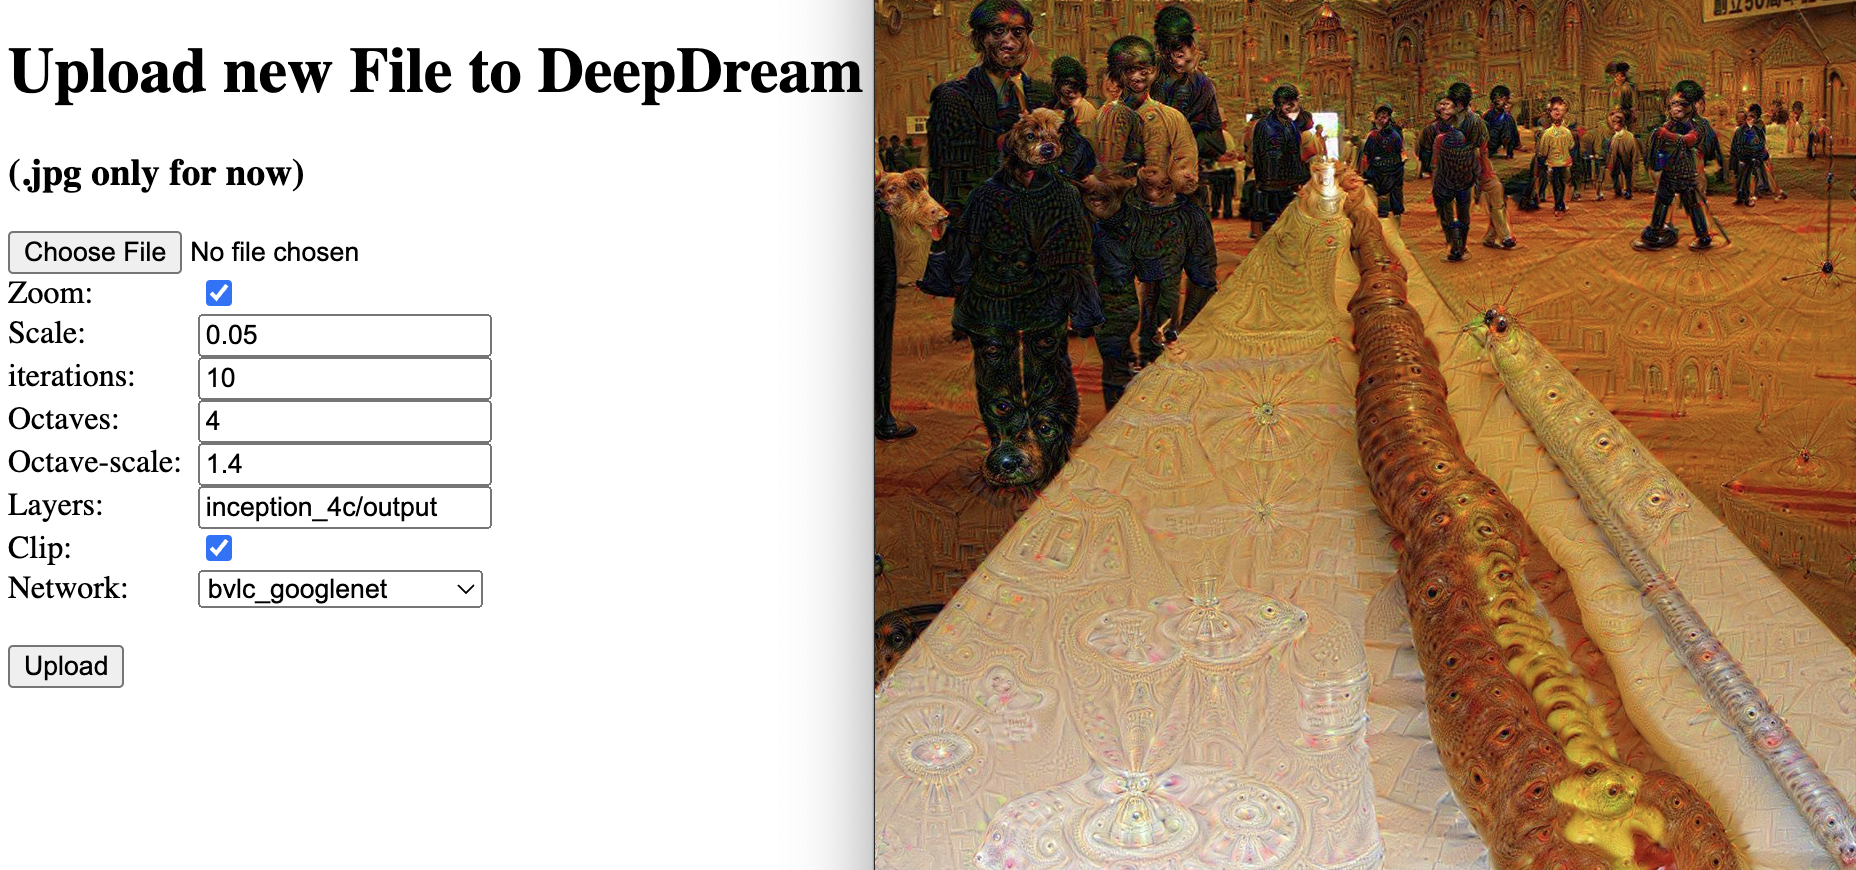
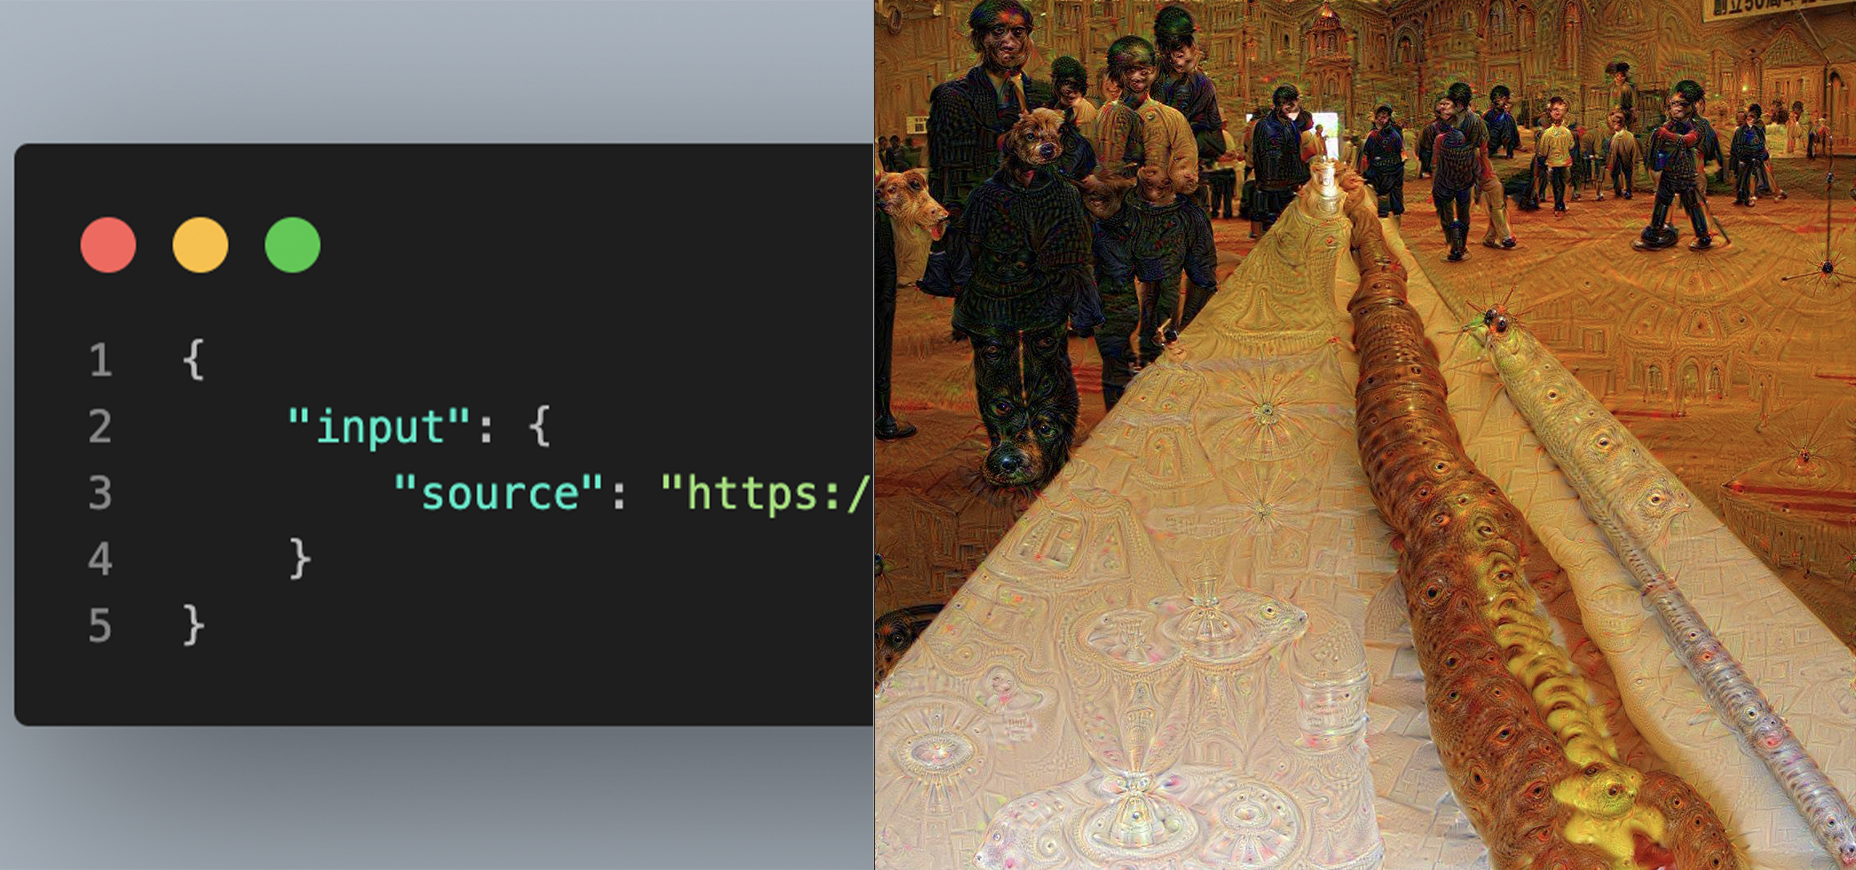
Better example runpod input

diff --git a/README.md b/README.md
@@ -5,7 +5,7 @@ This is an example Deep Dream container that runs https://github.com/google/deep
 https://github.com/runpod/runpod-python
 For now this furnishes a runpod endpoint style api which accepts JSON files containing a link to a valid .jpg image, processes said image using GPU compute, and returns an deep dream style image as a response. Additional arguments are also accepted via JSON.
 
-![Example image showing the HTML 5 form for making a deepDream request](https://raw.githubusercontent.com/Kezzsim/deepdream-api-docker/master/example.png)
+![Example image showing the HTML 5 form for making a deepDream request](https://github.com/Kezzsim/deepdream-api-docker/blob/runpod/example.png)
 
 This is not an official Google product.
 The goal of this project is to provide an easy to run deepDream image for nostalgia and preservation purpouses.
